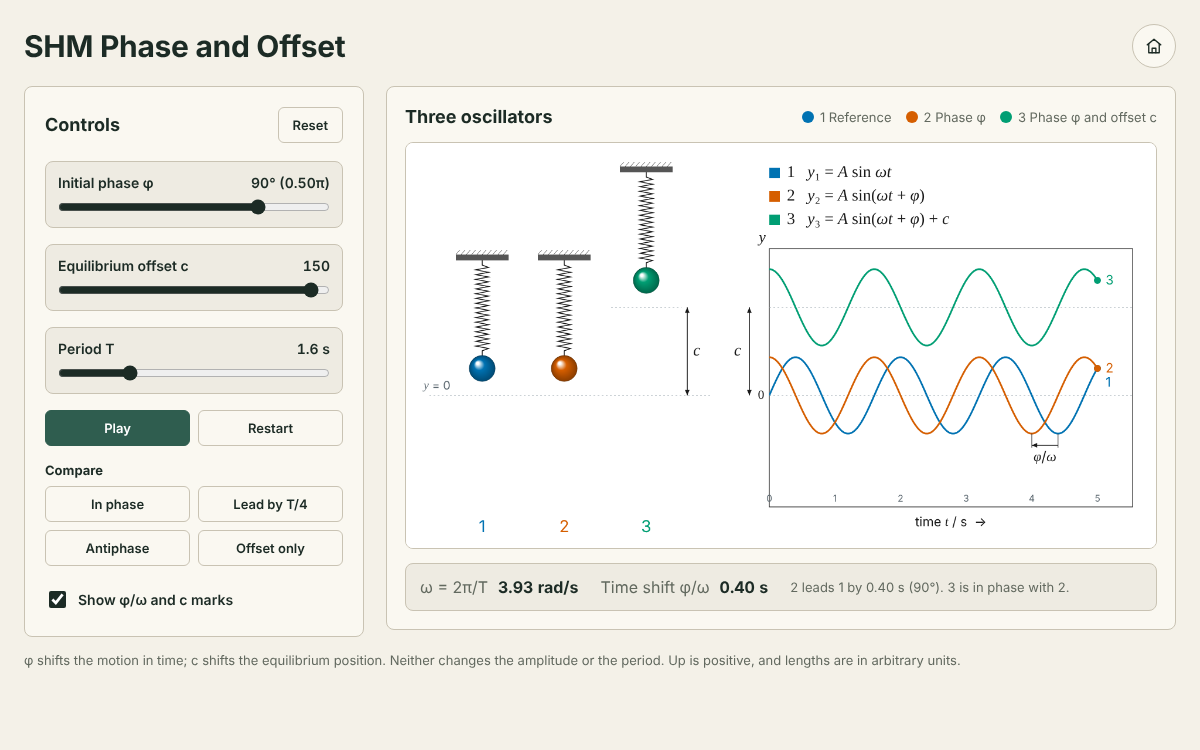
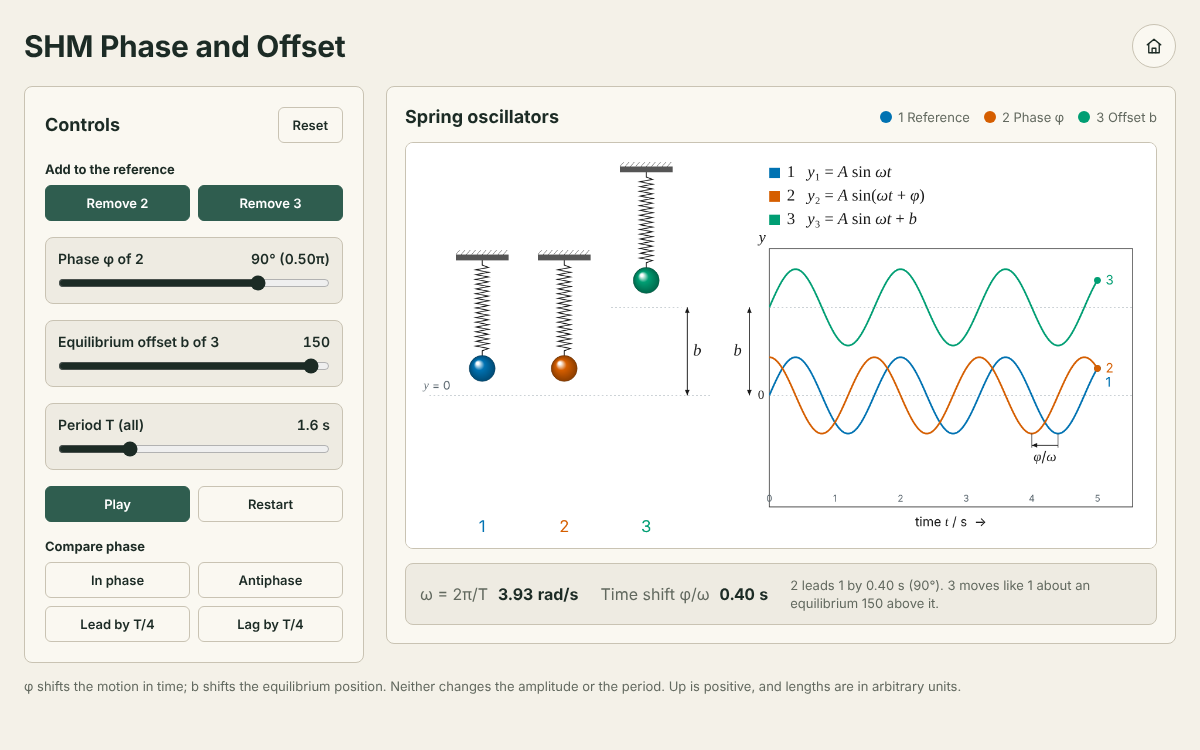
SHM Phase and Offset: add oscillators one at a time; offset renamed b and separate from phase
Claude-Session: https://claude.ai/code/session_019Nzegfr5EPjYyC5PsX5b7E

diff --git a/labs/shm-phase-offset/js/main.js b/labs/shm-phase-offset/js/main.js
@@ -2,12 +2,12 @@
     'use strict';
 
     var TWO_PI = Math.PI * 2;
-    var DEFAULTS = { phi: 90, c: 150, T: 1.6 };
+    var DEFAULTS = { phi: 90, b: 150, T: 1.6 };
     var PRESETS = {
-        same: { phi: 0, c: 0 },
-        lead: { phi: 90, c: 0 },
-        opposite: { phi: 180, c: 0 },
-        offset: { phi: 0, c: 150 }
+        same: { phi: 0 },
+        lead: { phi: 90 },
+        lag: { phi: -90 },
+        opposite: { phi: 180 }
     };
 
     // Fixed figure palette (colour-blind safe), drawn on a light surface in both site themes.
@@ -24,7 +24,9 @@
     var ctx = cv.getContext('2d');
     var W = cv.width, H = cv.height;
 
-    var T = DEFAULTS.T, phi = DEFAULTS.phi * Math.PI / 180, c = DEFAULTS.c;
+    // Oscillator 1: y = A sin(wt).  2: y = A sin(wt + phi).  3: y = A sin(wt) + b.
+    var shown = [true, false, false];
+    var T = DEFAULTS.T, phi = DEFAULTS.phi * Math.PI / 180, b = DEFAULTS.b;
     var w = TWO_PI / T, windowSec = 5, pxPerSec = (G.x1 - G.x0) / windowSec;
     var t = 5, last = 0, dirty = true;
     var reduceMotion = false;
@@ -67,9 +69,9 @@
     }
 
     function shade(hex, f) {
-        var n = parseInt(hex.slice(1), 16), r = n >> 16, g = (n >> 8) & 255, b = n & 255;
+        var n = parseInt(hex.slice(1), 16), r = n >> 16, g = (n >> 8) & 255, bl = n & 255;
         function m(v) { return Math.round(f < 0 ? v * (1 + f) : v + (255 - v) * f); }
-        return 'rgb(' + m(r) + ',' + m(g) + ',' + m(b) + ')';
+        return 'rgb(' + m(r) + ',' + m(g) + ',' + m(bl) + ')';
     }
 
     function drawSupport(x, y) {
@@ -99,13 +101,12 @@
     }
 
     // ---- model ----
-    function disp(i, s) { return A * Math.sin(w * s + (i === 0 ? 0 : phi)); }
-    function eqY(i) { return Y0 - (i === 2 ? c : 0); }
-    function supY(i) { return SUPPORT_Y - (i === 2 ? c : 0); }
+    function disp(i, s) { return A * Math.sin(w * s + (i === 1 ? phi : 0)); }
+    function eqY(i) { return Y0 - (i === 2 ? b : 0); }
+    function supY(i) { return SUPPORT_Y - (i === 2 ? b : 0); }
 
     function draw() {
         var now = t, i, k;
-        var showMarks = $('marks').checked;
         ctx.clearRect(0, 0, W, H);
         ctx.fillStyle = '#fff'; ctx.fillRect(0, 0, W, H);
 
@@ -113,6 +114,7 @@
         dotted(40, Y0, 520, Y0);
         richText('*y* = 0', 30, Y0 - 16, 20, 'left', SANS, MUTED);
         for (i = 0; i < 3; i++) {
+            if (!shown[i]) continue;
             var x = OSC_X[i], yb = eqY(i) - disp(i, now);
             drawSupport(x, supY(i));
             drawSpring(x, supY(i), yb - BALL_R);
@@ -128,7 +130,7 @@
         ctx.strokeStyle = INK; ctx.lineWidth = 1.2; ctx.setLineDash([]);
         ctx.strokeRect(G.x0, G.top, gx1 - G.x0, G.bottom - G.top);
         dotted(G.x0, Y0, gx1, Y0);
-        dotted(G.x0, Y0 - c, gx1, Y0 - c);
+        if (shown[2]) dotted(G.x0, Y0 - b, gx1, Y0 - b);
         richText('0', G.x0 - 14, Y0, 22, 'center', SERIF);
         richText('*y*', G.x0 - 12, G.top - 18, 26, 'center');
         richText('time *t* / s  →', (G.x0 + gx1) / 2, G.bottom + 26, 22, 'center');
@@ -138,11 +140,12 @@
 
         ctx.save(); ctx.beginPath(); ctx.rect(G.x0, G.top, gx1 - G.x0, G.bottom - G.top); ctx.clip();
         for (i = 0; i < 3; i++) {
-            var t0 = lo, n = Math.max(2, Math.ceil((now - t0) * 80));
+            if (!shown[i]) continue;
+            var n = Math.max(2, Math.ceil((now - lo) * 80));
             ctx.strokeStyle = COLORS[i]; ctx.lineWidth = 3; ctx.lineJoin = 'round'; ctx.setLineDash([]);
             ctx.beginPath();
             for (k = 0; k <= n; k++) {
-                var tt = t0 + (now - t0) * k / n, yy = eqY(i) - disp(i, tt);
+                var tt = lo + (now - lo) * k / n, yy = eqY(i) - disp(i, tt);
                 if (k) ctx.lineTo(X(tt), yy); else ctx.moveTo(X(tt), yy);
             }
             ctx.stroke();
@@ -151,24 +154,28 @@
         ctx.restore();
 
         // trace labels, nudged apart when two traces are close
-        var tags = [0, 1, 2].map(function (j) { return { i: j, y: eqY(j) - disp(j, now) }; })
+        var tags = [0, 1, 2].filter(function (j) { return shown[j]; })
+            .map(function (j) { return { i: j, y: eqY(j) - disp(j, now) }; })
             .sort(function (p, q) { return p.y - q.y; });
         for (k = 1; k < tags.length; k++) tags[k].y = Math.max(tags[k].y, tags[k - 1].y + 24);
         tags.forEach(function (tg) { richText(String(tg.i + 1), X(now) + 14, tg.y, 22, 'left', SANS, COLORS[tg.i]); });
 
-        // formulas
+        // formulas for the oscillators that are on screen
         var formulas = [
             '1   *y*₁ = *A* sin *ωt*',
             '2   *y*₂ = *A* sin(*ωt* + *φ*)',
-            '3   *y*₃ = *A* sin(*ωt* + *φ*) + *c*'
+            '3   *y*₃ = *A* sin *ωt* + *b*'
         ];
+        var row = 0;
         for (i = 0; i < 3; i++) {
-            ctx.fillStyle = COLORS[i]; ctx.fillRect(G.x0, 42 + i * 40, 18, 18);
-            richText(formulas[i], G.x0 + 30, 51 + i * 40, 28, 'left', SERIF);
+            if (!shown[i]) continue;
+            ctx.fillStyle = COLORS[i]; ctx.fillRect(G.x0, 42 + row * 40, 18, 18);
+            richText(formulas[i], G.x0 + 30, 51 + row * 40, 28, 'left', SERIF);
+            row++;
         }
 
-        // marks: time shift between corresponding troughs of 1 and 2, and the offset c
-        if (showMarks && Math.abs(phi) > 0.001) {
+        // marks: time shift between corresponding troughs of 1 and 2, and the offset b
+        if (shown[1] && Math.abs(phi) > 0.001) {
             var d = phi / w;
             var m = Math.floor((now + Math.min(0, d) - 3 * T / 4) / T);
             var t1 = 3 * T / 4 + m * T, t2 = t1 - d;
@@ -180,13 +187,13 @@
                 richText('*φ*/*ω*', (X(t1) + X(t2)) / 2, ya + 21, 24, 'center');
             }
         }
-        if (showMarks && Math.abs(c) > 0.001) {
+        if (shown[2] && Math.abs(b) > 0.001) {
             var xa = G.x0 - 34;
-            arrow(xa, Y0, xa, Y0 - c, true);
-            richText('*c*', xa - 20, Y0 - c / 2, 28, 'center');
+            arrow(xa, Y0, xa, Y0 - b, true);
+            richText('*b*', xa - 20, Y0 - b / 2, 28, 'center');
             var xl = OSC_X[2] + 70;
-            arrow(xl, Y0, xl, Y0 - c, true);
-            richText('*c*', xl + 10, Y0 - c / 2, 28);
+            arrow(xl, Y0, xl, Y0 - b, true);
+            richText('*b*', xl + 10, Y0 - b / 2, 28);
         }
     }
 
@@ -199,39 +206,68 @@
         pxPerSec = (G.x1 - G.x0) / windowSec;
         var deg = Math.round(phi * 180 / Math.PI), delta = phi / w;
         setText($('phiOut'), deg + '° (' + (phi / Math.PI).toFixed(2) + 'π)');
-        setText($('cOut'), String(c));
+        setText($('bOut'), String(b));
         setText($('TOut'), T.toFixed(1) + ' s');
         setText($('vw'), w.toFixed(2) + ' rad/s');
-        setText($('vd'), delta.toFixed(2) + ' s');
-        var rel;
-        if (Math.abs(deg) === 180) rel = '2 is in antiphase with 1, half a period apart. 3 is in phase with 2.';
-        else if (deg === 0) rel = '2 is in phase with 1. 3 has the same motion about a different equilibrium.';
-        else rel = '2 ' + (deg > 0 ? 'leads' : 'lags') + ' 1 by ' + Math.abs(delta).toFixed(2) + ' s (' + Math.abs(deg) + '°). 3 is in phase with 2.';
-        setText($('relation'), rel);
+        setText($('vd'), shown[1] ? delta.toFixed(2) + ' s' : '–');
+
+        var parts = [];
+        if (shown[1]) {
+            if (Math.abs(deg) === 180) parts.push('2 is in antiphase with 1, half a period apart.');
+            else if (deg === 0) parts.push('2 is in phase with 1.');
+            else parts.push('2 ' + (deg > 0 ? 'leads' : 'lags') + ' 1 by ' + Math.abs(delta).toFixed(2) + ' s (' + Math.abs(deg) + '°).');
+        }
+        if (shown[2]) {
+            if (b === 0) parts.push('3 coincides with 1.');
+            else parts.push('3 moves like 1 about an equilibrium ' + Math.abs(b) + (b > 0 ? ' above' : ' below') + ' it.');
+        }
+        if (!parts.length) parts.push('Oscillator 1 is the reference. Add 2 to change the phase, or 3 to change the offset b.');
+        setText($('relation'), parts.join(' '));
+
+        $('phi').disabled = !shown[1];
+        $('b').disabled = !shown[2];
+        $('phiRow').classList.toggle('is-off', !shown[1]);
+        $('bRow').classList.toggle('is-off', !shown[2]);
         dirty = true;
     }
 
+    function setShown(i, value) {
+        shown[i] = value;
+        var btn = $('add' + (i + 1));
+        btn.setAttribute('aria-pressed', value ? 'true' : 'false');
+        btn.textContent = value ? 'Remove ' + (i + 1) : (i === 1 ? 'Add 2: change phase φ' : 'Add 3: change offset b');
+        sync();
+    }
+
     function setParams(p) {
-        ['phi', 'c', 'T'].forEach(function (key) {
+        ['phi', 'b', 'T'].forEach(function (key) {
             if (p[key] === undefined) return;
             $(key).value = p[key];
             if (key === 'phi') phi = p[key] * Math.PI / 180;
-            else if (key === 'c') c = p[key];
+            else if (key === 'b') b = p[key];
             else T = p[key];
         });
         sync();
     }
 
-    ['phi', 'c', 'T'].forEach(function (key) {
+    ['phi', 'b', 'T'].forEach(function (key) {
         $(key).addEventListener('input', function () {
             var o = {}; o[key] = parseFloat($(key).value); setParams(o);
         });
     });
-    Array.prototype.forEach.call(document.querySelectorAll('[data-preset]'), function (b) {
-        b.addEventListener('click', function () { setParams(PRESETS[b.getAttribute('data-preset')]); });
+    $('add2').addEventListener('click', function () { setShown(1, !shown[1]); });
+    $('add3').addEventListener('click', function () { setShown(2, !shown[2]); });
+    Array.prototype.forEach.call(document.querySelectorAll('[data-preset]'), function (btn) {
+        btn.addEventListener('click', function () {
+            if (!shown[1]) setShown(1, true);
+            setParams(PRESETS[btn.getAttribute('data-preset')]);
+        });
     });
-    $('marks').addEventListener('change', function () { dirty = true; });
-    $('resetBtn').addEventListener('click', function () { setParams(DEFAULTS); t = 5; $('marks').checked = true; dirty = true; });
+    $('resetBtn').addEventListener('click', function () {
+        setParams(DEFAULTS);
+        setShown(1, false); setShown(2, false);
+        t = 5; dirty = true;
+    });
     $('restartBtn').addEventListener('click', function () { t = 0; dirty = true; });
     playBtn.addEventListener('click', function () { playing = !playing; playBtn.textContent = playing ? 'Pause' : 'Play'; });
 

diff --git a/labs/shm-phase-offset/index.html b/labs/shm-phase-offset/index.html
@@ -22,20 +22,28 @@
                 <button id="resetBtn" class="ghost-button" type="button">Reset</button>
             </div>
 
-            <label class="slider-row">
-                <span>Initial phase φ</span>
+            <div>
+                <p class="group-label">Add to the reference</p>
+                <div class="chip-grid">
+                    <button id="add2" class="ghost-button" type="button" aria-pressed="false">Add 2: phase φ</button>
+                    <button id="add3" class="ghost-button" type="button" aria-pressed="false">Add 3: offset b</button>
+                </div>
+            </div>
+
+            <label class="slider-row is-off" id="phiRow">
+                <span>Phase φ of 2</span>
                 <output id="phiOut" for="phi">90° (0.50π)</output>
-                <input id="phi" type="range" min="-180" max="180" step="5" value="90">
+                <input id="phi" type="range" min="-180" max="180" step="5" value="90" disabled>
+            </label>
+
+            <label class="slider-row is-off" id="bRow">
+                <span>Equilibrium offset b of 3</span>
+                <output id="bOut" for="b">150</output>
+                <input id="b" type="range" min="-80" max="160" step="5" value="150" disabled>
             </label>
 
             <label class="slider-row">
-                <span>Equilibrium offset c</span>
-                <output id="cOut" for="c">150</output>
-                <input id="c" type="range" min="-80" max="160" step="5" value="150">
-            </label>
-
-            <label class="slider-row">
-                <span>Period T</span>
+                <span>Period T (all)</span>
                 <output id="TOut" for="T">1.6 s</output>
                 <input id="T" type="range" min="0.8" max="4" step="0.1" value="1.6">
             </label>
@@ -46,44 +54,38 @@
             </div>
 
             <div>
-                <p class="group-label">Compare</p>
+                <p class="group-label">Compare phase</p>
                 <div class="chip-grid">
                     <button class="ghost-button" type="button" data-preset="same">In phase</button>
-                    <button class="ghost-button" type="button" data-preset="lead">Lead by T/4</button>
                     <button class="ghost-button" type="button" data-preset="opposite">Antiphase</button>
-                    <button class="ghost-button" type="button" data-preset="offset">Offset only</button>
+                    <button class="ghost-button" type="button" data-preset="lead">Lead by T/4</button>
+                    <button class="ghost-button" type="button" data-preset="lag">Lag by T/4</button>
                 </div>
             </div>
-
-            <label class="check-row">
-                <input id="marks" type="checkbox" checked>
-                <span>Show φ/ω and c marks</span>
-            </label>
-
         </section>
 
         <section class="panel stage-panel">
             <div class="section-title">
-                <h2>Three oscillators</h2>
+                <h2>Spring oscillators</h2>
                 <div class="legend">
                     <span><i class="swatch blue"></i>1 Reference</span>
                     <span><i class="swatch orange"></i>2 Phase φ</span>
-                    <span><i class="swatch teal"></i>3 Phase φ and offset c</span>
+                    <span><i class="swatch teal"></i>3 Offset b</span>
                 </div>
             </div>
             <div class="figure">
-                <canvas id="stage" width="1280" height="690" role="img" aria-label="Three spring oscillators on the left and their position–time graphs on the right"></canvas>
+                <canvas id="stage" width="1280" height="690" role="img" aria-label="Spring oscillators on the left and their position–time graphs on the right"></canvas>
             </div>
             <div class="readout-bar">
                 <p><span>ω = 2π/T</span><strong id="vw">3.93 rad/s</strong></p>
-                <p><span>Time shift φ/ω</span><strong id="vd">0.40 s</strong></p>
+                <p><span>Time shift φ/ω</span><strong id="vd">–</strong></p>
                 <p class="note" id="relation"></p>
             </div>
         </section>
     </main>
 
     <footer>
-        <p>φ shifts the motion in time; c shifts the equilibrium position. Neither changes the amplitude or the period. Up is positive, and lengths are in arbitrary units.</p>
+        <p>φ shifts the motion in time; b shifts the equilibrium position. Neither changes the amplitude or the period. Up is positive, and lengths are in arbitrary units.</p>
     </footer>
 
     <script src="js/main.js"></script>

diff --git a/labs/shm-phase-offset/css/style.css b/labs/shm-phase-offset/css/style.css
@@ -207,6 +207,16 @@ input[type="range"] {
     accent-color: var(--ink);
 }
 
+.slider-row.is-off {
+    opacity: 0.55;
+}
+
+.chip-grid .ghost-button[aria-pressed="true"] {
+    color: var(--control-text);
+    background: var(--control-fill);
+    border-color: var(--control-fill);
+}
+
 .check-row {
     display: flex;
     align-items: center;
